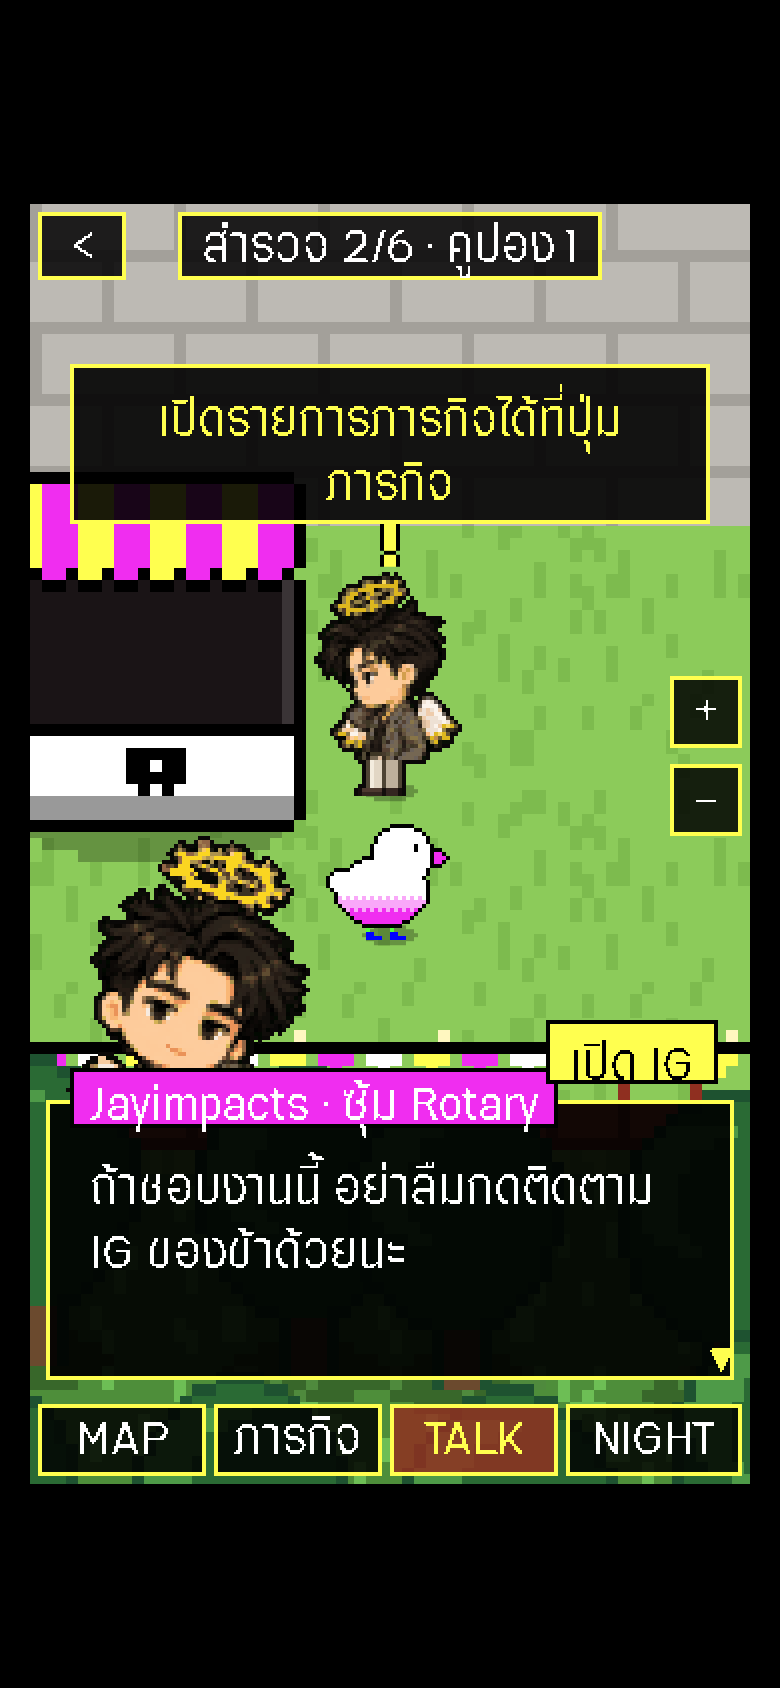
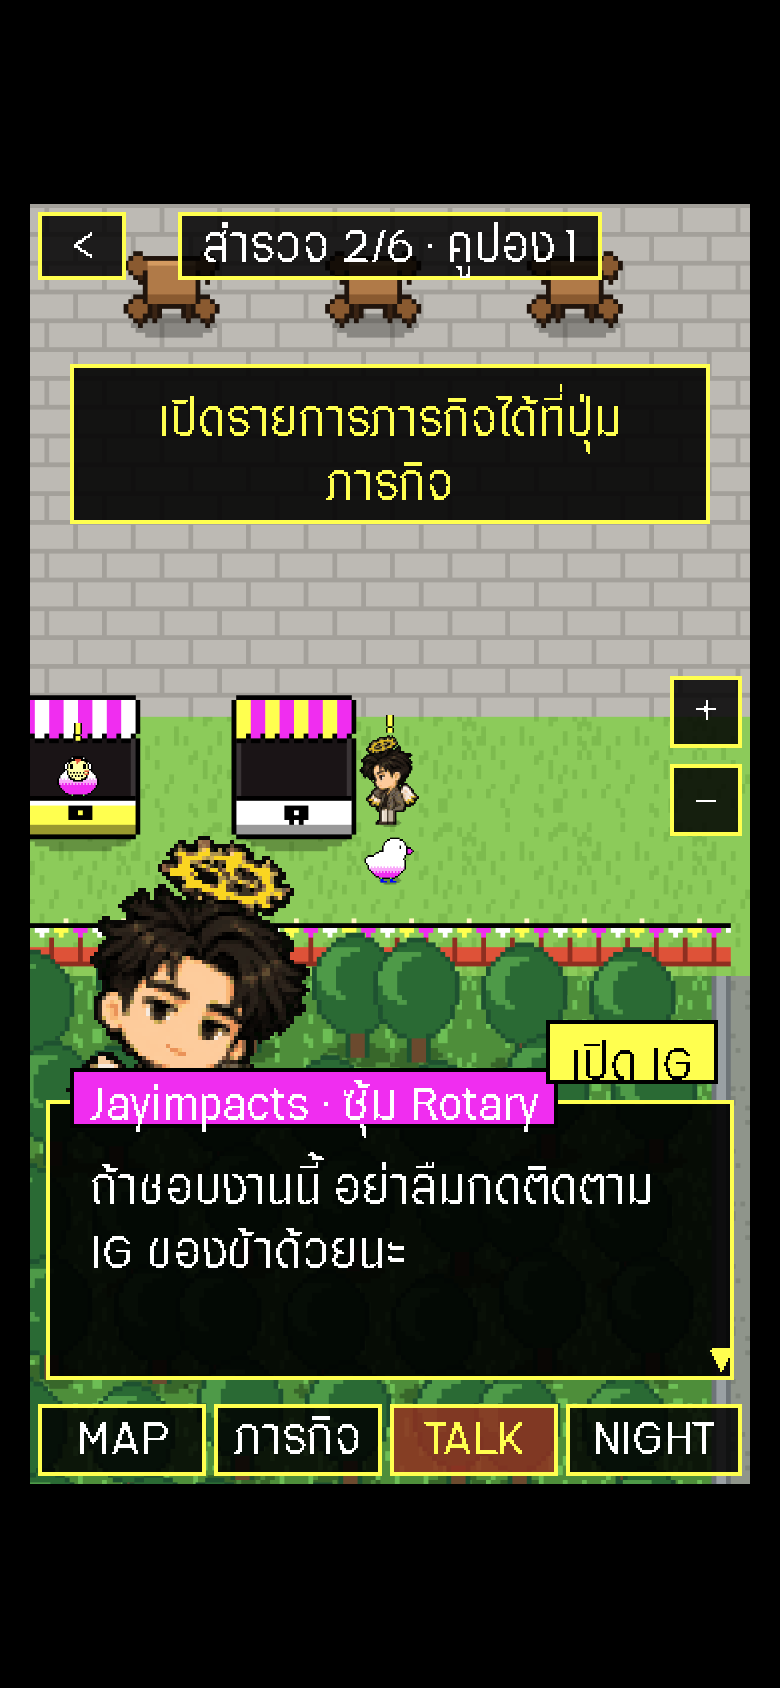
Scene 3: start at zoom 1.2 and point at the +/- buttons after the welcome (owner)
Claude-Session: https://claude.ai/code/session_01Fe5UomiUQN5FvRh91y8j5k

diff --git a/src/scene3/scenes/HudScene.js b/src/scene3/scenes/HudScene.js
@@ -6,8 +6,8 @@
 import Phaser from 'phaser';
 import { label, wrap } from '../ui/text.js';
 import { Dialogue } from '../ui/Dialogue.js';
-import { GOALS, LABELS, chipText, CHIP_DONE, WELCOME_PAGES, WELCOME_SPEAKER, AFTER_WELCOME_BANNER, VOUCHER_BANNER, PRIZE_BANNER, PRIZE_CHECK } from '../data/script.js';
-import { ZOOM_LEVELS, MIN_TOUCH_CSS_PX, PLATE_RANGE, URLS, STALL_BOOKING, TALK_RANGE } from '../config.js';
+import { GOALS, LABELS, chipText, CHIP_DONE, WELCOME_PAGES, WELCOME_SPEAKER, AFTER_WELCOME_BANNER, ZOOM_HINT, VOUCHER_BANNER, PRIZE_BANNER, PRIZE_CHECK } from '../data/script.js';
+import { ZOOM_LEVELS, MIN_TOUCH_CSS_PX, PLATE_RANGE, URLS, STALL_BOOKING, TALK_RANGE, ZOOM_HINT_MS } from '../config.js';
 import { ZONES, dist, inZone } from '../logic/layout.js';
 import { STALL_ROW, GHOSTS } from '../logic/npcs.js';
 import { audio } from '../../audio/engine.js';
@@ -49,6 +49,8 @@ export class HudScene extends Phaser.Scene {
     }
     this.chip = label(this, W / 2, 0, '', { depth: 11, align: 'center' });
     this.plate = label(this, 0, 0, '', { depth: 12, align: 'center', color: '#FFFF4F' });
+    this.hintTexts = ZOOM_HINT.map((t, i) => label(this, 0, 0, t, { depth: 12, align: 'center', color: i ? '#FFFFFF' : '#FFFF4F', px: 10 }).setVisible(false));
+    this.hintUntil = 0;
     this.place = label(this, W / 2, 0, '', { depth: 12, align: 'center', color: '#FFFFFF', px: 10 });
     this.bannerG = this.add.graphics().setDepth(150);
     this.bannerTexts = [0, 1].map(() => label(this, W / 2, 0, '', { depth: 151, align: 'center', color: '#FFFF4F' }));
@@ -229,6 +231,8 @@ export class HudScene extends Phaser.Scene {
     const S = this.S;
     if (S.mapOpen) return;
     S.zoom = Math.max(0, Math.min(ZOOM_LEVELS.length - 1, S.zoom + d));
+    S.zoomHinted = true;
+    this.hintUntil = 0;
     this.worldScene().applyZoom(true);
   }
 
@@ -357,8 +361,35 @@ export class HudScene extends Phaser.Scene {
       if (pt && pt.d <= TALK_RANGE) this.talk(pt.key);
       else if (dist(w.player, this.walkTo) < 2) this.walkTo = null;
     } else if (!this.down) S.input.target = null;
+    // Once per session, after the welcome: point at the +/- buttons.
+    if (!S.zoomHinted && !w.welcome.locked && !this.dialogue.open && !this.overlay) {
+      S.zoomHinted = true;
+      this.hintUntil = time + ZOOM_HINT_MS;
+    }
     this.dialogue.tick(time);
     this.drawHud(time);
+  }
+
+  /** A pulsing callout left of the +/- buttons: "you can zoom". */
+  drawZoomHint(g, time, hidden) {
+    const on = !hidden && time < this.hintUntil;
+    this.hintTexts.forEach((t) => t.setVisible(on));
+    if (!on) return;
+    const blink = Math.floor(time / 400) % 2 === 0;
+    const col = blink ? 0xffffff : 0xffff4f;
+    for (const k of ['zoomIn', 'zoomOut']) {
+      const r = BTN[k];
+      g.lineStyle(1, col, 1).strokeRect(r[0] - 1.5, r[1] - 1.5, r[2] + 3, r[3] + 3);
+    }
+    const nudge = blink ? 0 : 1;
+    const bx = 96 - nudge;
+    const by = 122;
+    const bw = 56;
+    const bh = 30;
+    g.fillStyle(0x000000, 0.9).fillRect(bx, by, bw, bh).lineStyle(1, 0xffff4f, 1).strokeRect(bx + 0.5, by + 0.5, bw - 1, bh - 1);
+    // Arrow to the buttons.
+    g.fillStyle(0xffff4f, 1).fillTriangle(bx + bw, by + bh / 2 - 4, bx + bw, by + bh / 2 + 4, bx + bw + 5, by + bh / 2);
+    this.hintTexts.forEach((t, i) => t.setOrigin(0.5, 0).setPosition(bx + bw / 2, by - 3 + i * 13));
   }
 
   drawHud(time) {
@@ -381,6 +412,7 @@ export class HudScene extends Phaser.Scene {
       box(r, active ? 0x8f2f20 : 0x000000, locked ? 0x666666 : 0xffff4f);
       t.setOrigin(0.5, 0.5).setPosition(Math.round(r[0] + r[2] / 2), Math.round(r[1] + r[3] / 2) - 1).setColor(locked ? '#777777' : k === 'act' && talkable ? '#FFFF4F' : '#FFFFFF');
     }
+    this.drawZoomHint(g, time, hidden || this.dialogue.open);
     // Progress chip.
     const done = w.progress.allGoals;
     const chip = done ? CHIP_DONE : chipText(w.progress.goalCount, w.progress.vouchers);

diff --git a/src/scene3/config.js b/src/scene3/config.js
@@ -13,7 +13,8 @@ export const BASE_H = 640;
 
 // ---- Camera and zoom (design px per map unit) ----
 export const ZOOM_LEVELS = [3, 2, 1.2, 0.65, 'fit']; // 'fit' = the whole map width in the window
-export const ZOOM_START = 0; // index into ZOOM_LEVELS
+export const ZOOM_START = 2; // index into ZOOM_LEVELS: 1.2, the lane and its stalls in view
+export const ZOOM_HINT_MS = 9000; // the +/- hint after the welcome, until the first zoom
 export const SMOOTH_BELOW = 1; // the world is drawn with smoothing below this zoom, nearest-neighbour above
 
 // ---- Characters ----

diff --git a/src/scene3/data/script.js b/src/scene3/data/script.js
@@ -16,6 +16,7 @@ export const WELCOME_PAGES = [
   'ถ้าคุยครบทุกคน จะมีรางวัลพิเศษให้ด้วย โฮะๆ',
 ];
 export const AFTER_WELCOME_BANNER = 'เปิดรายการภารกิจได้ที่ปุ่ม ภารกิจ';
+export const ZOOM_HINT = ['กด + / -', 'ซูมเข้า-ออก'];
 
 // ---- Goals: six places (final names and facts) ----
 export const GOALS = [

diff --git a/SCENE3.md b/SCENE3.md
@@ -89,6 +89,8 @@ word boundaries (Intl.Segmenter).
 Hold a finger anywhere to walk toward it (a cross marks the target), or arrows/WASD. Tap a character to
 talk (or walk to it, then talk). TALK replaces AUTO when someone is within 16 units. The chip at the top
 opens the checklist; MAP shows the whole map with the camera frame; DAY/NIGHT; + and - (also the + and -
-keys, the mouse wheel, pinch) step through zoom 3, 2, 1.2, 0.65 and the whole map width. AUTO walks the
+keys, the mouse wheel, pinch) step through zoom 3, 2, 1.2, 0.65 and the whole map width. The
+scene starts at 1.2 (the lane and its stalls in view); after the welcome a callout points at + and - once
+(about 9 s, or until the first zoom). AUTO walks the
 tour (lane, desk, shops, tables, cinema, haunted house view, band corner, back to the soi), pausing a
 second at each stop; any touch or key stops it.
